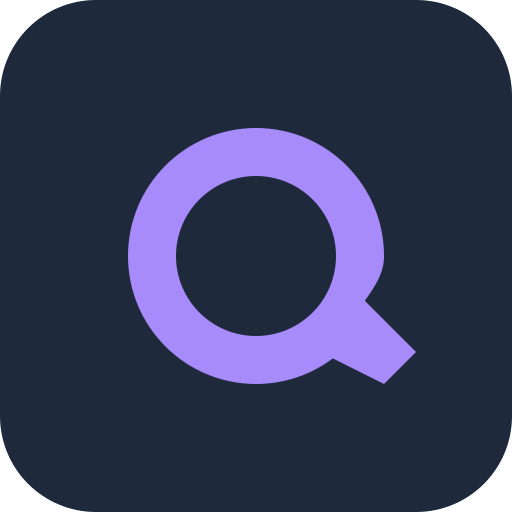
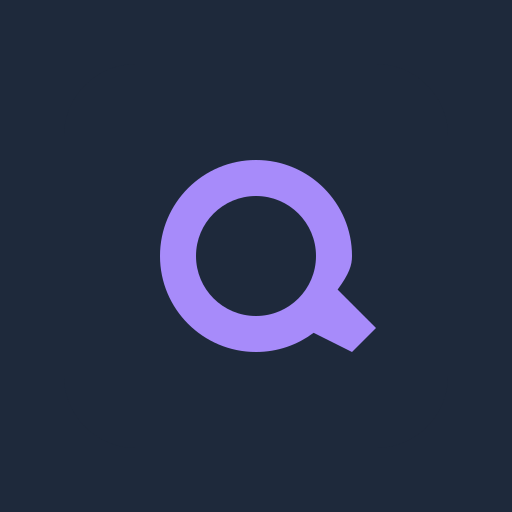
fix(admin): restore PWA assets and harden login during deploy
- Allow public access to admin manifest and icons in middleware
- Generate missing admin panel PNG icons for iOS PWA
- Return 503 instead of 500 when Redis is briefly unavailable
- Remove duplicate PM2 restart during VPN deploy step

diff --git a/src/middleware.ts b/src/middleware.ts
@@ -5,6 +5,15 @@ import { verifySessionToken } from "@/lib/admin/session-crypto";
 import { shouldHideDevOnlyApps } from "@/lib/admin/runtime";
 import { apiMiddlewareCors, applyCorsToNextResponse } from "@/lib/api/cors";
 
+/** PWA assets must stay public — iOS/Android refuse install if manifest/icons redirect to login. */
+function isAdminPublicPath(pathname: string, panelBase: string): boolean {
+  if (pathname === `${panelBase}/login`) return true;
+  if (pathname === `${panelBase}/manifest.json`) return true;
+  if (pathname === `${panelBase}/apple-touch-icon.png`) return true;
+  if (pathname.startsWith(`${panelBase}/icon`)) return true;
+  return false;
+}
+
 export async function middleware(request: NextRequest) {
   const { pathname } = request.nextUrl;
 
@@ -18,11 +27,15 @@ export async function middleware(request: NextRequest) {
 
   if (pathname.startsWith(panelBase)) {
     const loginPath = `${panelBase}/login`;
-    if (pathname === loginPath) {
+    if (isAdminPublicPath(pathname, panelBase)) {
       return NextResponse.next();
     }
-    const token = request.cookies.get("qhub_admin_session")?.value;
-    if (!token || !(await verifySessionToken(token))) {
+    try {
+      const token = request.cookies.get("qhub_admin_session")?.value;
+      if (!token || !(await verifySessionToken(token))) {
+        return NextResponse.redirect(new URL(loginPath, request.url));
+      }
+    } catch {
       return NextResponse.redirect(new URL(loginPath, request.url));
     }
     return NextResponse.next();

diff --git a/src/app/api/admin/login/route.ts b/src/app/api/admin/login/route.ts
@@ -21,15 +21,22 @@ export async function POST(request: Request) {
     return NextResponse.json({ error: "Укажите email и пароль" }, { status: 400 });
   }
 
-  const ok = await verifyAdminCredentials(email, password);
-  if (!ok) {
-    return NextResponse.json({ error: "Неверный email или пароль" }, { status: 401 });
-  }
+  try {
+    const ok = await verifyAdminCredentials(email, password);
+    if (!ok) {
+      return NextResponse.json({ error: "Неверный email или пароль" }, { status: 401 });
+    }
 
-  const token = await createSessionToken(getAdminEmail());
-  const res = NextResponse.json({ ok: true });
-  res.cookies.set(sessionCookieOptions(token));
-  return res;
+    const token = await createSessionToken(getAdminEmail());
+    const res = NextResponse.json({ ok: true });
+    res.cookies.set(sessionCookieOptions(token));
+    return res;
+  } catch {
+    return NextResponse.json(
+      { error: "Сервис временно недоступен. Попробуйте через минуту." },
+      { status: 503 },
+    );
+  }
 }
 
 export async function DELETE() {

diff --git a/src/app/api/admin/apps/route.ts b/src/app/api/admin/apps/route.ts
@@ -8,17 +8,24 @@ export async function GET() {
     return NextResponse.json({ error: "Не авторизован" }, { status: 401 });
   }
 
-  const hiddenIds = new Set(await getHiddenAppIds());
-  const list = sortApps(apps).map((app) => ({
-    id: app.id,
-    title: app.title,
-    href: app.href,
-    comingSoon: !!app.comingSoon,
-    devOnly: !!app.devOnly,
-    hiddenFromPublic: hiddenIds.has(app.id),
-  }));
+  try {
+    const hiddenIds = new Set(await getHiddenAppIds());
+    const list = sortApps(apps).map((app) => ({
+      id: app.id,
+      title: app.title,
+      href: app.href,
+      comingSoon: !!app.comingSoon,
+      devOnly: !!app.devOnly,
+      hiddenFromPublic: hiddenIds.has(app.id),
+    }));
 
-  return NextResponse.json({ apps: list });
+    return NextResponse.json({ apps: list });
+  } catch {
+    return NextResponse.json(
+      { error: "Сервис временно недоступен. Попробуйте через минуту." },
+      { status: 503 },
+    );
+  }
 }
 
 export async function PATCH(request: Request) {
